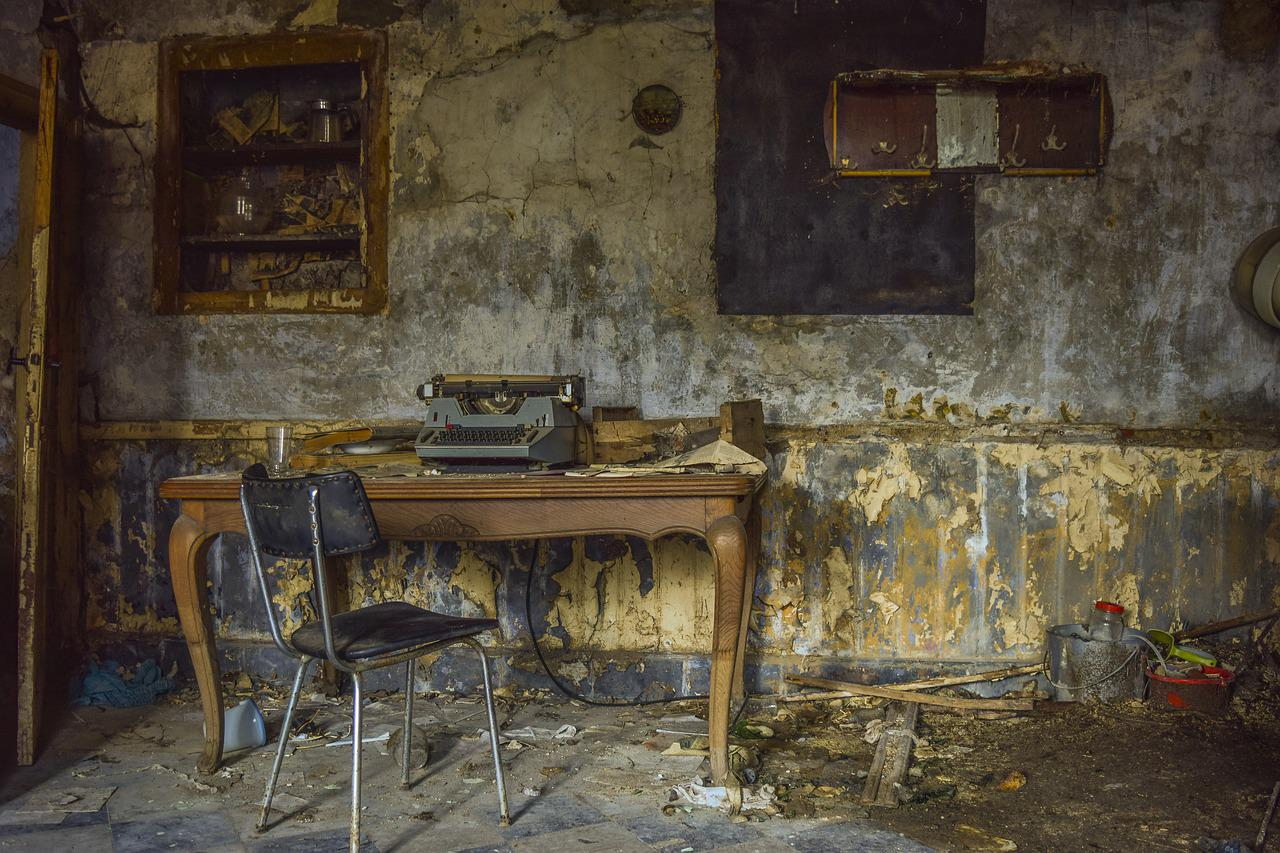
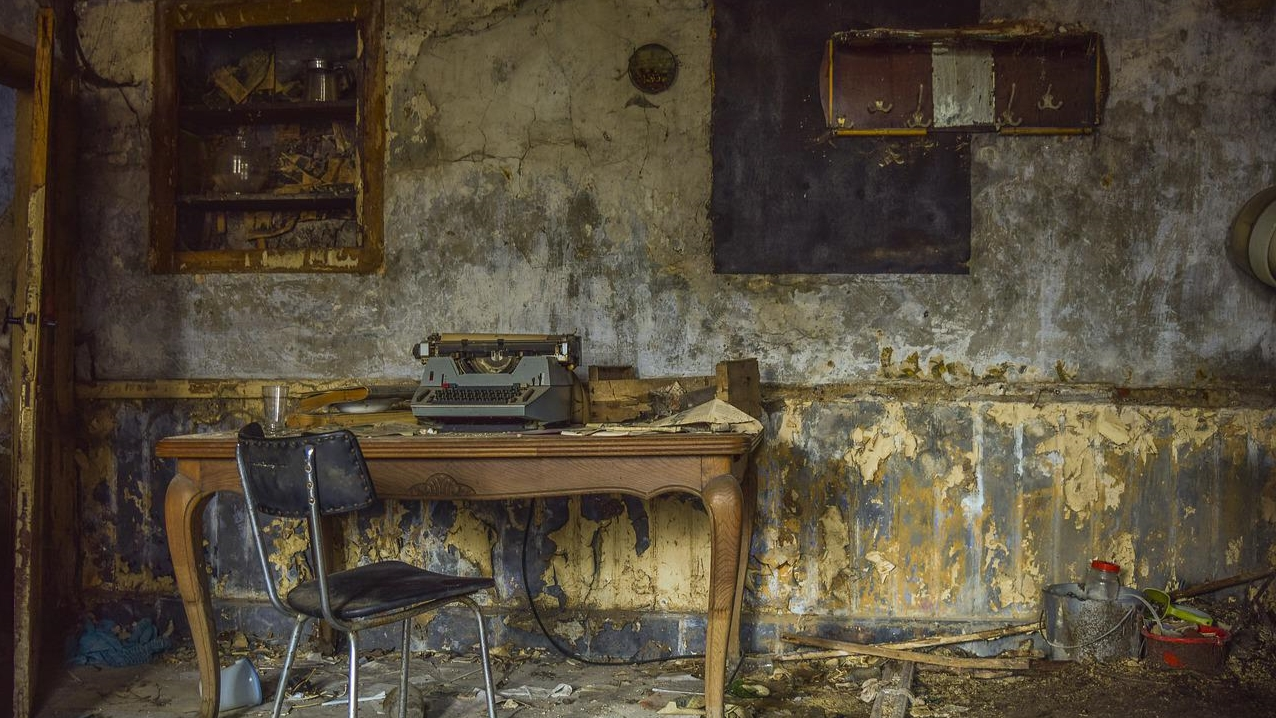
hola

diff --git a/stile_pg3.css b/stile_pg3.css
@@ -1,0 +1,70 @@
+.stanza_3{
+	position: absolute;
+	width: 100%;
+	height: 100%;
+	border-color: aquamarine;
+	filter: brightness(100%);
+}
+.stanza_3 > img{
+		width: 100%;
+		height: auto;
+}
+.popup_macchina_da_scrivere{
+	position: absolute;
+	display: none;
+	z-index: 9999;
+	top: -150px;	
+	margin-left: auto;
+	margin-right: auto;
+	left:0;
+	right: 0;
+	scale: 40%;
+}
+@media  (max-width:1000px) {
+    .popup_macchina_da_scrivere{
+        scale:30%;
+        top:-200px;
+    }
+}
+@media  (max-width:800px) {
+    .popup_macchina_da_scrivere{
+        scale:20%;
+        top:-300px;
+        left:-7%;
+    }
+}
+@media  (max-width:600px) {
+    .popup_macchina_da_scrivere{
+        scale:15%;
+        top:-350px;
+        left:-28%;
+    }
+}
+@media  (max-width:500px) {
+    .popup_macchina_da_scrivere{
+        scale:11%;
+        top:-400px;
+        left:-53%;
+    }
+}
+@media (max-width:393px){
+    .popup_macchina_da_scrivere{
+        scale:9%;
+        top:-423px;
+        left:-62%;
+    }
+}
+@media (max-width:360px){
+    .popup_macchina_da_scrivere{
+        scale:8%;
+        top:-433px;
+        left:-74%;
+    }
+}
+@media (max-width:315px){
+    .popup_macchina_da_scrivere{
+        scale:7%;
+        top:-450px;
+        left:-105%;
+    }
+}

diff --git a/orologio/script.js b/orologio/script.js
@@ -9,9 +9,12 @@ function inserisci_orario(){
     hour.style.transform = `rotate(${hr_rotation}deg)`;
     minute.style.transform = `rotate(${min_rotation}deg)`;
     if(hr=="10" && min=="10"){
-        alert("orario inserito corretto");
+        
         var hangoutBotton = document.getElementById("esci_due");
         hangoutBotton.click();
+        alert("orario inserito corretto");
+        $("#orologio").css("cursor","default");
+        $("#orologio").unbind('click').removeAttr("onclick")[0].onclick = null;
         parent.postMessage("primo_enigma","*")
 }
 }

diff --git a/housescape.js b/housescape.js
@@ -116,9 +116,7 @@ $(document).ready(function(){
 
 var array_utente =new Array();
 var mio_array=new Array("Fa","Mi","Re", "Sol", "Si");
-function popup_piano(){
-    $(document).getElementById("pianoforte").style.display = "inline";
-}
+
 var x=0;
 function incrementa() {
     var i = document.getElementById("progress").value;

diff --git a/primolivello.css b/primolivello.css
@@ -11,7 +11,12 @@
 	justify-content: center;
     align-items: center;
   }
-
+#terzo{
+	overflow: hidden;
+    background:black;
+	justify-content: center;
+    align-items: center;
+}
 
 
 .bg{

diff --git a/page3.php b/page3.php
@@ -6,13 +6,32 @@
     <meta name="viewport" content="width=device-width, initial-scale=1.0">
     <link rel="shortcut icon" href="./img/exit.png" type="image/x-icon">
     <link rel="stylesheet" href="./css/bootstrap.min.css">
-    <link rel="stylesheet" href="./stile.css">
+    <link rel="stylesheet" href="./primolivello.css">
     <link rel="stylesheet" href="./stile_pg3.css">
+    <script src="http://ajax.googleapis.com/ajax/libs/jquery/1.10.2/jquery.min.js"></script>
+    <script src="./js/jquery.rwdImageMaps.js"></script>
+    <script src="./housescape.js"></script>
+    <script src="./js/page3.js"></script>
     <title>HousEscape</title>
 </head>
-<body>
-    <div class="container">
-        <img  class="lucchetto" src="./img/lucchetto.png">
+<body id="terzo">
+    <div class="stanza_3">
+        <img src="./img/stanza_3.jpg" usemap="#typewriter" id="type_writer" width="1276" height="718">
+        <map name="typewriter">
+           <area id="type" shape="rect" coords="420,338,568,416" href="#" onclick="" title="macchina_da_scrivere"> 
+        </map>
+        <!--img  class="lucchetto" src="./img/lucchetto.png"-->
     </div>
+    <img src="./img/macchina_da_scrivere.png" id="macchina_da_scrivere" class="popup_macchina_da_scrivere">
+    <script>
+        $("#type").click(function(){
+            $("#type").css("cursor","default");
+            $("#type_writer").addClass("blur");
+            $("#macchina_da_scrivere").fadeIn(500);
+        });
+        $(document).ready(function(e) {
+        $("#type_writer").rwdImageMaps();
+    });
+    </script>
 </body>
 </html>

diff --git a/page2.php b/page2.php
@@ -10,14 +10,14 @@
     <script src="http://ajax.googleapis.com/ajax/libs/jquery/1.10.2/jquery.min.js"></script>
     <script src="./js/jquery.rwdImageMaps.js"></script>
     <script src="./housescape.js"></script>
-    <script> var solved_piano = false</script>
+    <script> var solved_piano = false;</script>
     <title>Document</title>
 </head>
 <body id="secondo">
     <div class="piano" >
         <img src="./img/img2.png" usemap="#piano" id="melodia" width="1500" height="966">
         <map name="piano">
-            <area id = "area" shape="rect" alt="parte 1 immagine" coords="309,526,530,562" href="#" onclick="popup_piano();" title="piano">
+            <area id = "area" shape="rect" alt="parte 1 immagine" coords="309,526,530,562" href="#" onclick="" title="piano">
             <area id = "cartello" shape="rect" coords="554,622,683,673" href="#">
         </map>
         <div class="test">
